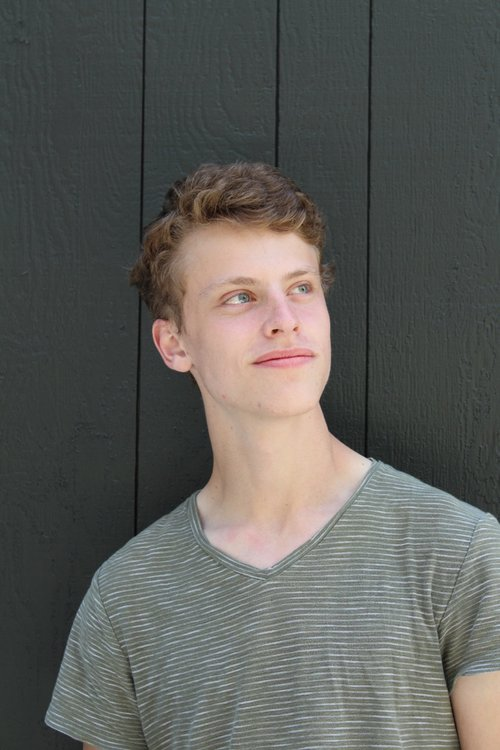
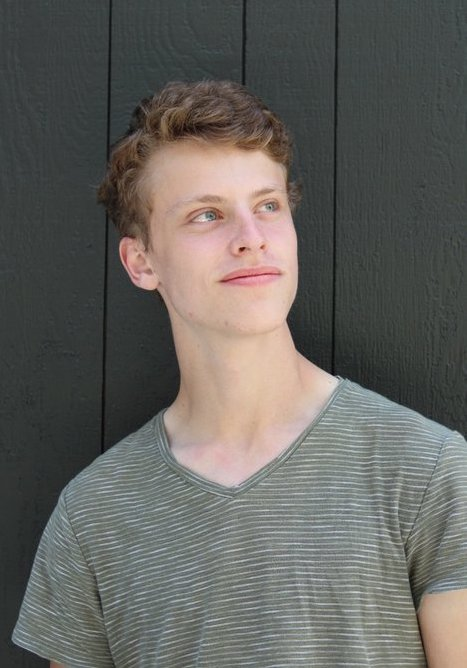
Style and text edits w/ Juliet & Liam

Changed region(s): [[0.03, 0.0, 1.0, 1.0], [0.4797, 0.5389, 0.5696, 0.5689], [0.2698, 0.0, 0.2998, 0.0599]]

diff --git a/src/components/bio-section/bio-section.tsx b/src/components/bio-section/bio-section.tsx
@@ -16,11 +16,11 @@ export const BioSection = ({ className }: BioSectionProps) => {
                 <div className={styles['bio-text-container']}>
                     <h2>About me</h2>
                     <p className={styles['project-description']}>
-                        I love learning new things! I've been curious my whole life and I plan to keep learning. I started coding in fifth grade, and continue to discover new ways to use computers to solve problems. The possibilities are endless, and I hope to find a company where I can explore those possibilities and help create something new.</p>
+                        I love learning new things! I've been curious my whole life and I plan to keep learning. I started coding in fifth grade, and continue to discover new ways to use computers to solve problems. The possibilities are endless, and I hope to find a company where I can explore these possibilities and help create something new.</p>
                     <h3>Education and Experience</h3>
                     <p className={styles['project-description']}>
-                        In high school, I participated in dual enrollment at Georgia Tech, where I took Linear Algebra, Multivariable Calculus, and Object Oriented Programming. These classes reinforced that I was interested in CS and math. Currently at Stanford, I am taking a math theory of CS class in Fall quarter, and plan to continue to take CS classes through Winter and Spring quarters.<br />
-                        Outside of school, I gained much programming experience through my robotics team, where I was the Electrical and Programming lead and subsequently Head of Engineering. In these roles, I learned how to coordinate larger projects and handle many moving parts. I participated in an internship with the CDC that used natural language processing (NLP) to investigate and find connections in medical publications. I also took on many personal projects to explore programming and teach myself more. You can explore some of these below!</p></div>
+                        While in high school, I was dual enrolled at Georgia Tech, where I explored Linear Algebra, Multivariable Calculus, and Object-Oriented Programming. This fall, I'm taking a class on the mathematical theory of computer science, and I'm excited to dive deeper into CS in the Winter and Spring quarters.<br />
+                        Outside of school, I worked as the Electrical and Programming lead in my robotics club, then rose to Head of Engineering in my senior year. I gained valuable programming experience and learned how to coordinate larger projects and handle many moving parts. I also interned with the CDC, where I used natural language processing (NLP) to investigate and find connections in medical publications. I also took on many personal projects to teach myself more. You can check out some of these below!</p></div>
                 <div className={styles['image-wrapper']}>
                     <img
                         src="/src/assets/Headshot.jpeg"

diff --git a/src/App.tsx b/src/App.tsx
@@ -8,7 +8,7 @@ function App() {
         {
             title: "PortaVax",
             description: "At the Georgia Governor's Honors Program, I worked with my small group to design, build, and program an autonomous vehicle for last-mile vaccine delivery. The challenges included power, for which we used a solar panel and LiFePO4 battery, temperature control, for which we modeled and decided on a vacuum-insulated system with a Peltier cooler, and object avoidance, for which we used ultrasonic sensors and programming. Over the three weeks we had to build, I helped with the temperature and power modeling and led the programming and much of the fabrication efforts.",
-            image: "/src/assets/portavax.jpg"
+            image: "/src/assets/portavax.png"
         },
         {
             title: "Zoom To Class",
@@ -39,7 +39,9 @@ function App() {
 
     return (
         <div className={styles.App}>
-            <h1 className={styles['big-intro']}>I’m a Stanford student studying Computer Science and Math.</h1>
+            <div className={styles['header-container']}>
+                <h1 className={styles['big-intro']}>I am a Stanford student studying Computer Science and Math.</h1>
+            </div>
             <BioSection />
             {projects.map((project, i) =>
                 <Project image={project.image} title={project.title} description={project.description} />

diff --git a/src/components/project/project.module.scss b/src/components/project/project.module.scss
@@ -12,6 +12,7 @@
     background-attachment: scroll;
     background-origin: padding-box;
     background-clip: border-box;
+    margin: 10px;
 }
 
 .project-div {
@@ -24,9 +25,11 @@
 }
 
 .project-text {
-    padding: 13px;
+    padding: 16px;
     text-align: start;
     font-weight: 500;
+    margin-right: 0px;
+    margin-left: 16px;
 }
 
 .project-img {
@@ -40,13 +43,14 @@
 .project-description {
     text-align: start;
     direction: ltr;
+    margin: 0px;
 }
 
 .image-wrapper {
-    width: 400px;
+    width: 420px;
     height: 350px;
     display: flex;
-    min-width: 400px;
+    min-width: 420px;
     align-items: center;
     justify-content: center;
 }

diff --git a/src/components/bio-section/bio-section.module.scss b/src/components/bio-section/bio-section.module.scss
@@ -12,6 +12,7 @@
     background-attachment: scroll;
     background-origin: padding-box;
     background-clip: border-box;
+    margin-top: 4em;
 }
 
 .project-div {
@@ -35,6 +36,7 @@
     max-width: 100%;
     max-height: 100%;
     box-shadow: 3.41px 3.66px 10px -3px black;
+    border-radius: 4px;
 }
 
 .project-description {
@@ -51,6 +53,7 @@
     min-width: 400px;
     align-items: center;
     justify-content: center;
+    padding: 10px 0px 10px 10px;
 }
 
 .bio-text-container {

diff --git a/src/App.module.scss b/src/App.module.scss
@@ -62,8 +62,8 @@
 }
 
 .big-intro {
-    margin: 0px 0px 0px 30%;
-    text-align: end;
+    margin: 0px 0px 0px 10%;
+    text-align: start;
     font-weight: 600;
     font-size: 6em;
     display: block;
@@ -71,4 +71,16 @@
     padding-left: 0%;
     direction: ltr;
     padding-bottom: 16px;
+    width: 80%;
+}
+
+.header-container {
+    width: 100%;
+    display: flex;
+    align-items: center;
+    justify-content: center;
+}
+
+.topbar {
+    display: flex;
 }

diff --git a/src/index.css b/src/index.css
@@ -4,8 +4,8 @@
     font-weight: 400;
 
     color-scheme: light dark;
-    color: rgba(255, 255, 255, 0.87);
-    background-color: #ea6100;
+    color: rgba(129, 0, 0, 0.87);
+    background-color: hsl(0, 100%, 88%);
 
     font-synthesis: none;
     text-rendering: optimizeLegibility;
@@ -38,6 +38,7 @@ h1 {
     line-height: 1.1;
     text-align: start;
     padding-right: 20px;
+    margin: 0px 0px 8px;
 }
 
 h2 {

diff --git a/src/_codux/boards/app/app.board.tsx b/src/_codux/boards/app/app.board.tsx
@@ -7,5 +7,6 @@ export default createBoard({
     environmentProps: {
         windowWidth: 1200,
         windowHeight: 690,
+        canvasWidth: 1762
     }
 });
